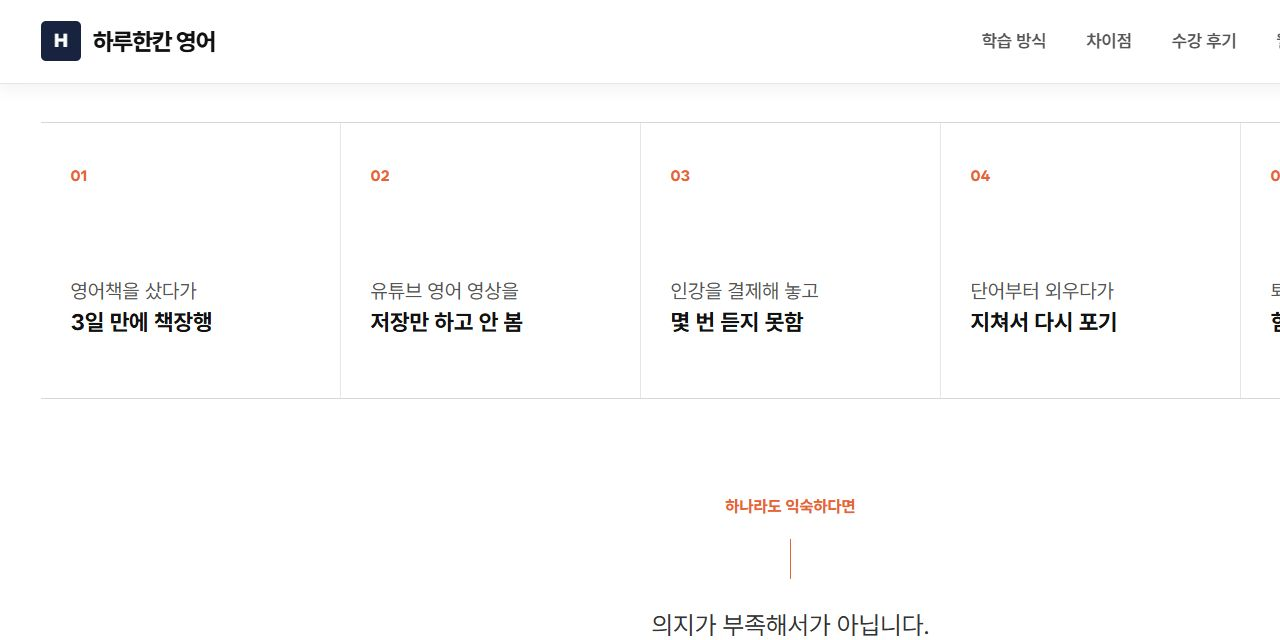
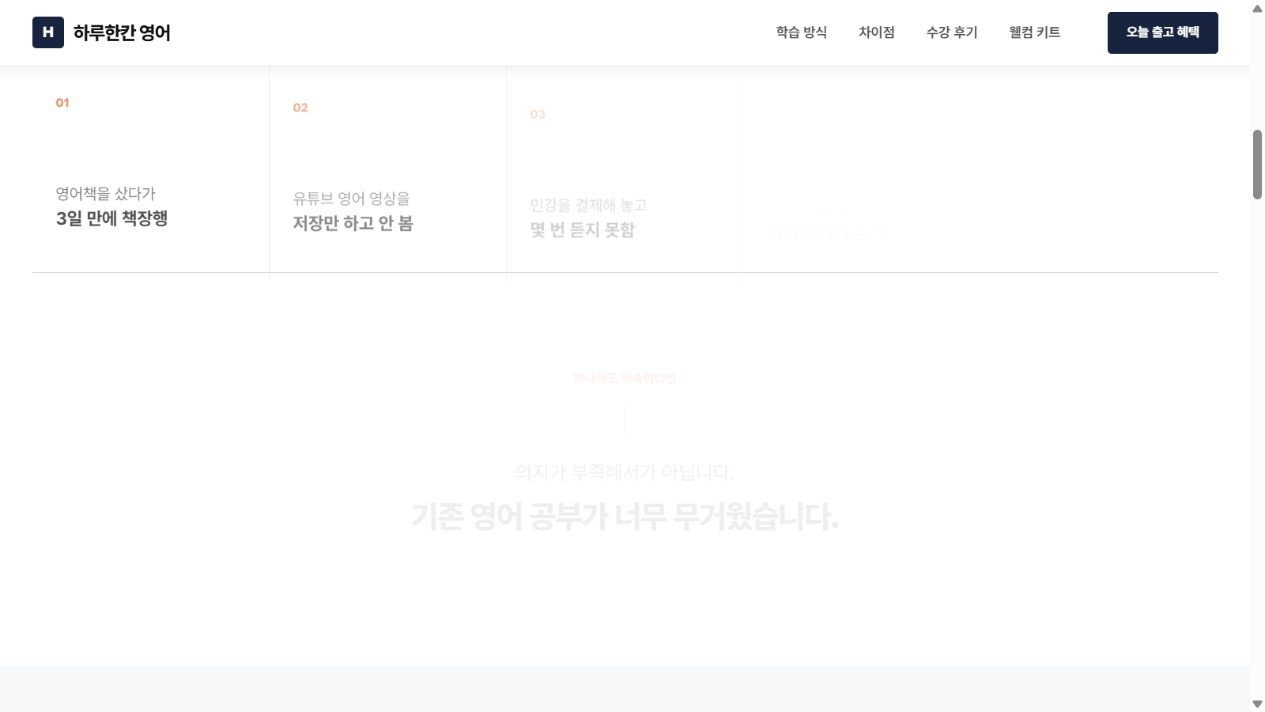
improve landing and detail presentation

diff --git a/src/data/portfolio.ts b/src/data/portfolio.ts
@@ -176,14 +176,15 @@ export const landingProjects: LandingProject[] = [
     ai: '기획, 카피, 이미지, 코드 제작 전반에 AI를 활용하고 브라우저에서 직접 검수했습니다.',
     duration: '약 3일',
     images: [
-      { src: '/images/projects/landing-vitamin-01.png', sourceWidth: 1600 },
-      { src: '/images/projects/landing-vitamin-02.png', sourceWidth: 1600 },
-      { src: '/images/projects/landing-vitamin-03.png', sourceWidth: 1600 },
-      { src: '/images/projects/landing-vitamin-04.png', sourceWidth: 1600 },
-      { src: '/images/projects/landing-vitamin-05.png', sourceWidth: 1600 },
-      { src: '/images/projects/landing-vitamin-06.png', sourceWidth: 1600 },
-      { src: '/images/projects/landing-vitamin-07.png', sourceWidth: 1600 },
-      { src: '/images/projects/landing-vitamin-08.png', cropTop: 667, sourceWidth: 1600 },
+      { src: '/images/projects/landing-vitamin-01.png', sourceWidth: 2200 },
+      { src: '/images/projects/landing-vitamin-02.png', cropTop: 200, sourceWidth: 2200 },
+      { src: '/images/projects/landing-vitamin-03.png', cropTop: 200, sourceWidth: 2200 },
+      { src: '/images/projects/landing-vitamin-04.png', cropTop: 200, sourceWidth: 2200 },
+      { src: '/images/projects/landing-vitamin-05.png', cropTop: 200, sourceWidth: 2200 },
+      { src: '/images/projects/landing-vitamin-06.png', cropTop: 200, sourceWidth: 2200 },
+      { src: '/images/projects/landing-vitamin-07.png', cropTop: 200, sourceWidth: 2200 },
+      { src: '/images/projects/landing-vitamin-08.png', cropTop: 200, sourceWidth: 2200 },
+      { src: '/images/projects/landing-vitamin-09.png', cropTop: 200, sourceWidth: 2200 },
     ],
     url: 'https://shdls1016-max.github.io/landing-vitamin/',
   },
@@ -197,19 +198,21 @@ export const landingProjects: LandingProject[] = [
     ai: '콘텐츠 구조와 카피, 이미지, 코드 초안에 AI를 활용하고 화면 흐름과 전환 지점을 직접 조정했습니다.',
     duration: '약 4일',
     images: [
-      { src: '/images/projects/landing-english-01.png' },
-      { src: '/images/projects/landing-english-02.png', cropTop: 84 },
-      { src: '/images/projects/landing-english-03.png', cropTop: 84 },
-      { src: '/images/projects/landing-english-04.png', cropTop: 84 },
-      { src: '/images/projects/landing-english-05.png', cropTop: 84 },
-      { src: '/images/projects/landing-english-06.png', cropTop: 84 },
-      { src: '/images/projects/landing-english-07.png', cropTop: 84 },
-      { src: '/images/projects/landing-english-08.png', cropTop: 84 },
-      { src: '/images/projects/landing-english-09.png', cropTop: 84 },
-      { src: '/images/projects/landing-english-10.png', cropTop: 84 },
-      { src: '/images/projects/landing-english-11.png', cropTop: 84 },
-      { src: '/images/projects/landing-english-12.png', cropTop: 84 },
-      { src: '/images/projects/landing-english-13.png', cropTop: 487 },
+      { src: '/images/projects/landing-english-01.png', sourceWidth: 2200 },
+      { src: '/images/projects/landing-english-02.png', cropTop: 200, sourceWidth: 2200 },
+      { src: '/images/projects/landing-english-03.png', cropTop: 200, sourceWidth: 2200 },
+      { src: '/images/projects/landing-english-04.png', cropTop: 200, sourceWidth: 2200 },
+      { src: '/images/projects/landing-english-05.png', cropTop: 200, sourceWidth: 2200 },
+      { src: '/images/projects/landing-english-06.png', cropTop: 200, sourceWidth: 2200 },
+      { src: '/images/projects/landing-english-07.png', cropTop: 200, sourceWidth: 2200 },
+      { src: '/images/projects/landing-english-08.png', cropTop: 200, sourceWidth: 2200 },
+      { src: '/images/projects/landing-english-09.png', cropTop: 200, sourceWidth: 2200 },
+      { src: '/images/projects/landing-english-10.png', cropTop: 200, sourceWidth: 2200 },
+      { src: '/images/projects/landing-english-11.png', cropTop: 200, sourceWidth: 2200 },
+      { src: '/images/projects/landing-english-12.png', cropTop: 200, sourceWidth: 2200 },
+      { src: '/images/projects/landing-english-13.png', cropTop: 200, sourceWidth: 2200 },
+      { src: '/images/projects/landing-english-14.png', cropTop: 200, sourceWidth: 2200 },
+      { src: '/images/projects/landing-english-15.png', cropTop: 200, sourceWidth: 2200 },
     ],
     url: 'https://shdls1016-max.github.io/landing-studyEng/',
   },
@@ -238,6 +241,7 @@ export const cardNews: CardNews[] = [
   { title: '찬물 마실 때 이가 시린 이유는?', topic: '시린이 · 치아 민감증', image: '/images/card-news/cold-sensitivity.jpg' },
   { title: '사랑니, 꼭 뽑아야 할까요?', topic: '사랑니 · 발치', image: '/images/card-news/wisdom-tooth.jpg' },
   { title: '나에게 맞는 스케일링 주기는?', topic: '스케일링 · 예방관리', image: '/images/card-news/scaling.jpg' },
+  { title: '피가 나는 잇몸, 괜찮은 걸까요?', topic: '잇몸 출혈 · 잇몸질환', image: '/images/card-news/gum-bleeding.jpg' },
 ]
 
 export const cardNewsBlogUrl = 'https://blog.naver.com/study_log25/224337956116'
@@ -258,10 +262,10 @@ export const detailProjects: DetailProject[] = [
     title: '24H MOISTURE LOCK-IN',
     category: '히알루론산 수분크림 상세페이지',
     target: '피부 속당김과 건조함을 고민하는 소비자',
-    intent: 'AI 와이어프레임과 메인 이미지를 살리면서 수분 지속력과 피부 변화를 근거 중심으로 전달했습니다.',
+    intent: 'AI가 만든 와이어프레임과 메인 이미지 일부만 남기고, 정보 구조와 섹션 디자인 대부분을 Figma에서 다시 구성해 수분 지속력과 피부 변화가 명확하게 읽히도록 완성했습니다.',
     flow: ['핵심 효능', '피부 고민', '수분 기술', '원료', '사용 경험', '구매 제안'],
-    aiMode: 'AI Draft + Figma Refinement',
-    directWork: ['타이포그래피 재정리', '간격·정렬 보완', '이미지 배치 수정', '컬러와 섹션 흐름 통일'],
+    aiMode: 'AI Wireframe + Figma Reconstruction',
+    directWork: ['정보 구조 재구성', '섹션 디자인 재제작', '타이포그래피 전면 수정', '메인 이미지 선별·재배치', '컬러·정렬 체계 통일', '구매 흐름 최종 편집'],
     duration: '약 2일',
     image: '/images/detail-pages/moisture-cream.webp',
   },
@@ -269,10 +273,10 @@ export const detailProjects: DetailProject[] = [
     title: 'ERGONOMIC OFFICE CHAIR',
     category: '인체공학 사무용 의자 상세페이지',
     target: '장시간 컴퓨터를 사용하는 직장인, 학생과 재택근무자',
-    intent: 'AI 기획과 무드, 이미지를 바탕으로 정보량을 줄이고 제품 장점이 빠르게 읽히도록 Figma에서 다시 설계했습니다.',
+    intent: 'AI가 제안한 기획, 디자인 무드와 이미지를 바탕으로 기본 흐름을 유지하며 Figma에서 화면을 정리하고, 제품 장점이 빠르게 읽히도록 완성도를 높였습니다.',
     flow: ['착석 문제', '사용 장면', '맞춤 조절', '소재와 내구성', '사용자 후기', '제품 규격'],
-    aiMode: 'AI Planning + Figma Redesign',
-    directWork: ['깨진 이미지 보완', '전체 레이아웃 재설계', '폰트·정렬 수정', '과도한 정보 삭제', '이미지 위치 조정'],
+    aiMode: 'AI Direction + Figma Refinement',
+    directWork: ['깨진 이미지 보완', '폰트 크기 보정', '정렬 체계 수정', '과도한 정보 삭제', '이미지 위치 조정'],
     duration: '약 1–2일',
     image: '/images/detail-pages/office-chair.webp',
   },

diff --git a/src/styles.css b/src/styles.css
@@ -274,14 +274,19 @@ dd { font-size: 13px; line-height: 1.65; color: var(--color-text-secondary); }
 .card-news-item { aspect-ratio: 1/1; }
 .card-news-item img { width: 100%; height: 100%; object-fit: cover; transition: transform .5s; }
 .card-news-item:hover img { transform: scale(1.035); }
-.card-news-actions { margin-top: 32px; display: flex; justify-content: flex-end; }
+.card-news-actions { margin-top: 32px; display: flex; justify-content: center; }
 
 .detail { background: #fff; }
-.detail-preview { width: min(100%,540px); margin: 0 auto; border: 1px solid var(--color-line); border-radius: 14px; box-shadow: 0 24px 70px rgba(44,56,75,.13); }
+.detail-layout { align-items: stretch; }
+.detail-visual, .detail-copy { height: clamp(600px,70vh,660px); }
+.detail-visual { min-width: 0; display: flex; flex-direction: column; }
+.detail-preview { width: min(100%,540px); height: auto; min-height: 0; flex: 1; margin: 0 auto; border: 1px solid var(--color-line); border-radius: 14px; box-shadow: none; }
 .detail-copy { padding-top: 8px; }
 .ai-mode { display: inline-flex; margin: 18px 0 28px; padding: 8px 12px; font-size: 11px; font-weight: 700; letter-spacing: .08em; color: var(--color-accent); background: #edf4ff; border-radius: 999px; }
 .detail-subsection { margin-top: 28px; }
 .detail-subsection h4 { margin-bottom: 13px; font-size: 11px; letter-spacing: .12em; color: var(--color-text-tertiary); }
+.detail-subsection ul { grid-template-columns: repeat(3,minmax(0,1fr)); gap: 10px 16px; }
+.detail-subsection li { align-items: flex-start; }
 
 .contact { min-height: 100svh; background: var(--color-text-primary); color: #fff; }
 .contact-layout { min-height: calc(100svh - 180px); display: grid; grid-template-columns: 1fr 1fr; align-content: center; gap: 80px; }
@@ -358,6 +363,7 @@ dd { font-size: 13px; line-height: 1.65; color: var(--color-text-secondary); }
   .device-mockup { width: min(84vw,320px); height: auto; }
   .carousel-header, .visual-heading { align-items: flex-start; }
   .landing-layout, .detail-layout { gap: 46px; }
+  .detail-visual, .detail-copy { height: auto; }
   .landing-layout { min-height: 0; }
   .landing-preview, .landing-copy { height: auto; }
   .landing-preview .browser-frame { height: 62vh; flex: none; }
@@ -391,6 +397,7 @@ dd { font-size: 13px; line-height: 1.65; color: var(--color-text-secondary); }
   .landing-layout, .detail-layout { gap: 36px; }
   .browser-frame__scroll, .detail-preview { height: 52vh; }
   .landing-copy dl div, .detail-copy dl div, .game-copy dl div, .project-info dl div { grid-template-columns: 1fr; gap: 5px; }
+  .detail-subsection ul { grid-template-columns: repeat(2,minmax(0,1fr)); }
   .visual-heading { display: block; }
   .pause-note { margin-top: 24px; }
   .marquee-row--wide img { width: 330px; }

diff --git a/src/App.tsx b/src/App.tsx
@@ -528,7 +528,7 @@ function DetailSlide({ project }: { project: DetailProject }) {
   return (
     <article className="carousel-slide">
       <div className="detail-layout">
-        <div>
+        <div className="detail-visual">
           <div className="detail-preview"><img src={assetPath(project.image)} alt={`${project.category} 전체 이미지`} loading="lazy" /></div>
           <p className="scroll-guide"><MousePointer2 size={15} /> 이미지 위에서 스크롤해 전체 페이지를 확인해 보세요.</p>
         </div>
@@ -604,7 +604,6 @@ function Contact() {
           <a href="mailto:rv729@naver.com"><span><Mail /> EMAIL</span><strong>rv729@naver.com</strong><ArrowUpRight /></a>
           <button onClick={copyKakao}><span><Copy /> KAKAOTALK</span><strong>{copied ? 'ID가 복사되었습니다' : 'hihi9888'}</strong><ArrowUpRight /></button>
           <a href="https://blog.naver.com/study_log25" target="_blank" rel="noreferrer"><span>BLOG</span><strong>study_log25</strong><ArrowUpRight /></a>
-          <a href="https://github.com/shdls1016-max" target="_blank" rel="noreferrer"><span>GITHUB</span><strong>shdls1016-max</strong><ArrowUpRight /></a>
         </div>
         <div className="contact-footer">
           <span>© 2026 SONHYEIN</span>
